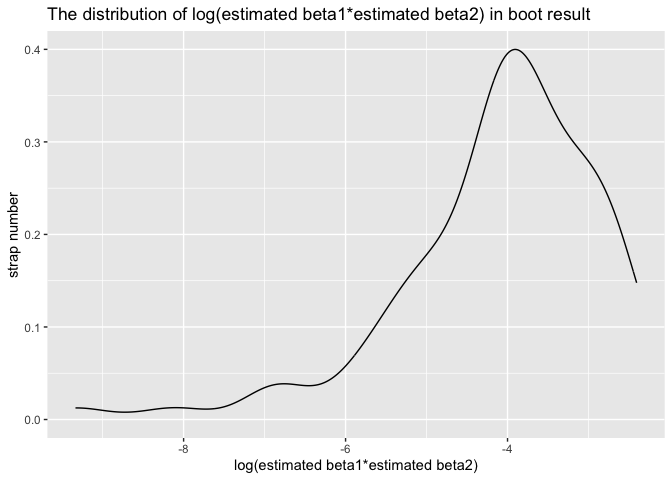
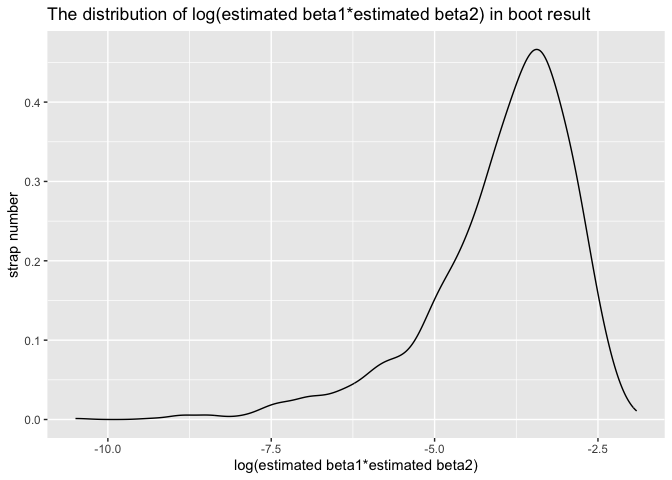
get the proportion of valid log(estimated beta1*estimated beta2) among 5000

diff --git a/p8105_hw6_zj2379.md b/p8105_hw6_zj2379.md
@@ -172,7 +172,7 @@ boot_sample = function(df) {
 }
 
 boot_straps = 
-  tibble(strap_number = 1:200) |> 
+  tibble(strap_number = 1:5000) |> 
    mutate(
     strap_sample = map(strap_number, \(i) boot_sample(weather_df)),
     models = map(strap_sample, \(df) lm(tmax ~ tmin + prcp, data = df)),
@@ -219,6 +219,17 @@ r_squared_values|>
 ```
 
 ![](p8105_hw6_zj2379_files/figure-gfm/unnamed-chunk-8-1.png)<!-- -->
+
+``` r
+# get the proportion of valid log(estimated beta1*estimated beta2) among 5000
+prop_valid_log =
+  log_product |> 
+  drop_na() 
+fraction = nrow(prop_valid_log)/5000
+fraction
+```
+
+    ## [1] 0.33
 
 # Problem 3
 
@@ -315,7 +326,7 @@ ggplot(birthweight, aes(x = fitted_values, y = residuals)) +
   theme_minimal()
 ```
 
-![](p8105_hw6_zj2379_files/figure-gfm/unnamed-chunk-11-1.png)<!-- -->
+![](p8105_hw6_zj2379_files/figure-gfm/unnamed-chunk-12-1.png)<!-- -->
 From the plot, the residuals scatter around 0.
 
 ``` r
@@ -388,11 +399,11 @@ cv_df |> pull(train) |> nth(1) |> as_tibble()
     ##  3 1          34      52  3062   157      55 1        40   0             14
     ##  4 2          34      52  3374   156       5 1        41.6 0             13
     ##  5 1          33      52  3374   129      55 1        40.7 0             12
-    ##  6 2          33      49  2778   140       5 1        37.4 0             12
-    ##  7 1          36      52  3515   146      85 1        40.3 0             11
-    ##  8 1          33      50  3459   169      75 2        40.7 0             12
-    ##  9 2          35      51  3317   130      55 1        43.4 0             13
-    ## 10 1          35      51  3459   146      55 1        39.4 0             12
+    ##  6 2          33      46  2523   126      96 2        40.3 0             14
+    ##  7 1          33      50  3459   169      75 2        40.7 0             12
+    ##  8 2          35      51  3317   130      55 1        43.4 0             13
+    ##  9 1          35      51  3459   146      55 1        39.4 0             12
+    ## 10 2          35      48  3175   158      75 1        39.7 0             13
     ## # ℹ 3,463 more rows
     ## # ℹ 12 more variables: mheight <dbl>, momage <dbl>, mrace <fct>, parity <fct>,
     ## #   pnumlbw <dbl>, pnumsga <dbl>, ppbmi <dbl>, ppwt <dbl>, smoken <dbl>,
@@ -406,15 +417,15 @@ cv_df |> pull(test) |> nth(1) |> as_tibble()
     ##    babysex bhead blength   bwt delwt fincome frace gaweeks malform menarche
     ##    <fct>   <dbl>   <dbl> <dbl> <dbl>   <dbl> <fct>   <dbl> <fct>      <dbl>
     ##  1 1          34      48  3062   156      65 2        25.9 0             14
-    ##  2 2          33      46  2523   126      96 2        40.3 0             14
-    ##  3 1          34      63  3175   143      25 1        41.9 0             13
-    ##  4 1          35      51  3345   145      75 1        41.3 0             12
-    ##  5 2          35      52  3289   135      55 1        40.6 0             13
-    ##  6 2          34      52  3629   112      25 1        38   0             10
-    ##  7 1          35      55  3856   171      85 1        41.1 0             13
-    ##  8 2          34      49  3317   142      35 1        40.4 0             12
-    ##  9 2          34      49  2948   135      75 1        42.7 0             12
-    ## 10 2          34      49  3033   128      25 1        41.1 0             12
+    ##  2 2          33      49  2778   140       5 1        37.4 0             12
+    ##  3 1          36      52  3515   146      85 1        40.3 0             11
+    ##  4 2          33      49  2551   120      75 2        38.1 0             11
+    ##  5 2          35      53  3345   127      65 2        39.7 0             14
+    ##  6 2          35      50  3175   140      85 2        40.6 0             14
+    ##  7 1          34      63  3175   143      25 1        41.9 0             13
+    ##  8 2          34      49  3118   161      45 2        38.9 0             10
+    ##  9 2          34      54  3345   130      95 1        42.1 0             10
+    ## 10 2          34      51  3232   155      55 1        41.6 0             15
     ## # ℹ 859 more rows
     ## # ℹ 12 more variables: mheight <dbl>, momage <dbl>, mrace <fct>, parity <fct>,
     ## #   pnumlbw <dbl>, pnumsga <dbl>, ppbmi <dbl>, ppwt <dbl>, smoken <dbl>,
@@ -466,9 +477,9 @@ cv_results |>
     ## # A tibble: 3 × 2
     ##   model_type m_rmse
     ##   <chr>       <dbl>
-    ## 1 reg_1        273.
+    ## 1 reg_1        271.
     ## 2 reg_2        332.
-    ## 3 reg_3        289.
+    ## 3 reg_3        287.
 
 ``` r
 cv_results |> 
@@ -483,7 +494,7 @@ cv_results |>
   geom_violin()
 ```
 
-![](p8105_hw6_zj2379_files/figure-gfm/unnamed-chunk-15-1.png)<!-- -->
+![](p8105_hw6_zj2379_files/figure-gfm/unnamed-chunk-16-1.png)<!-- -->
 
 Reg_1 might have the best performance in terms of RMSE because its
 distribution is lower and tighter, indicating lower and more consistent
